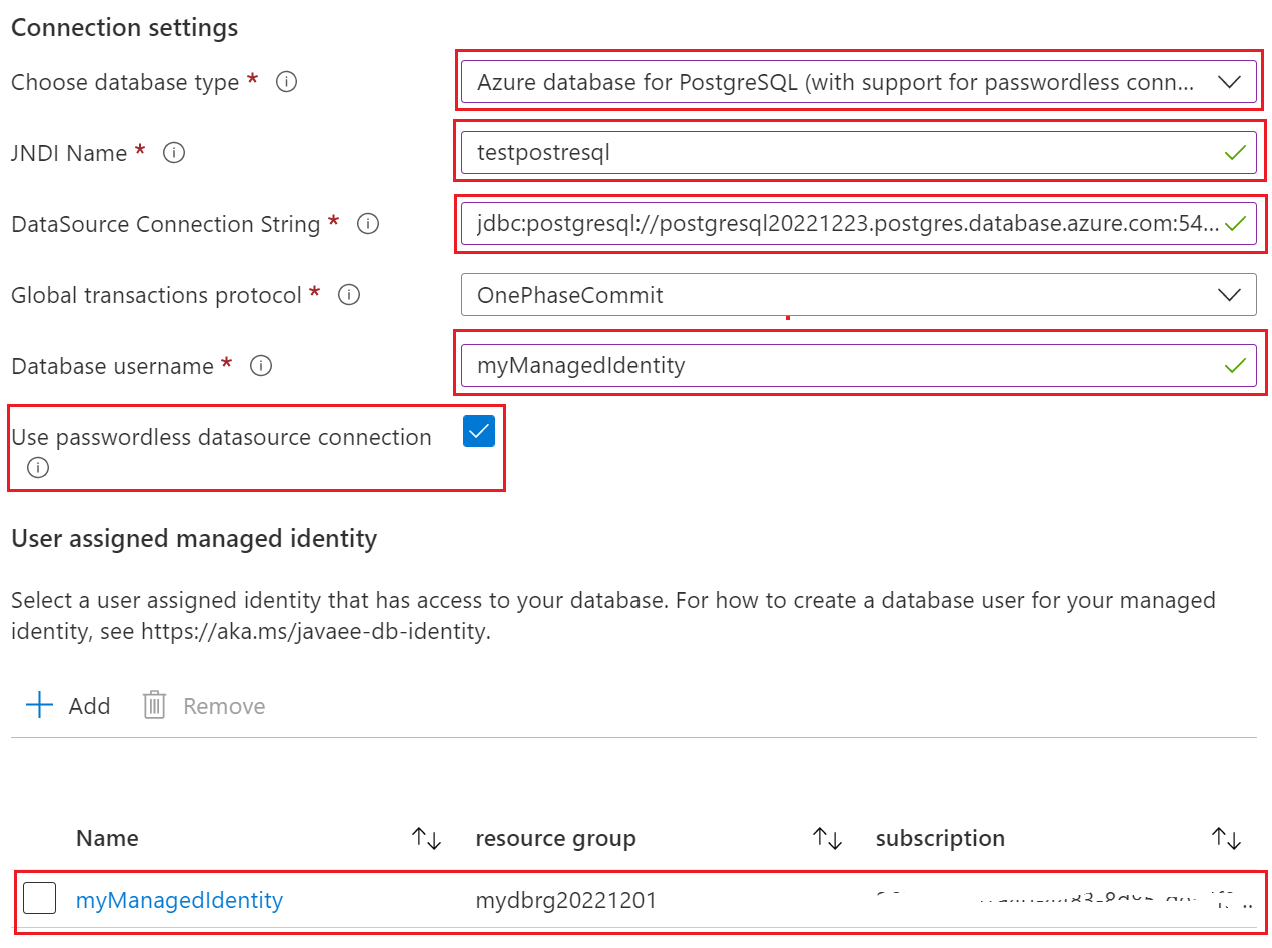
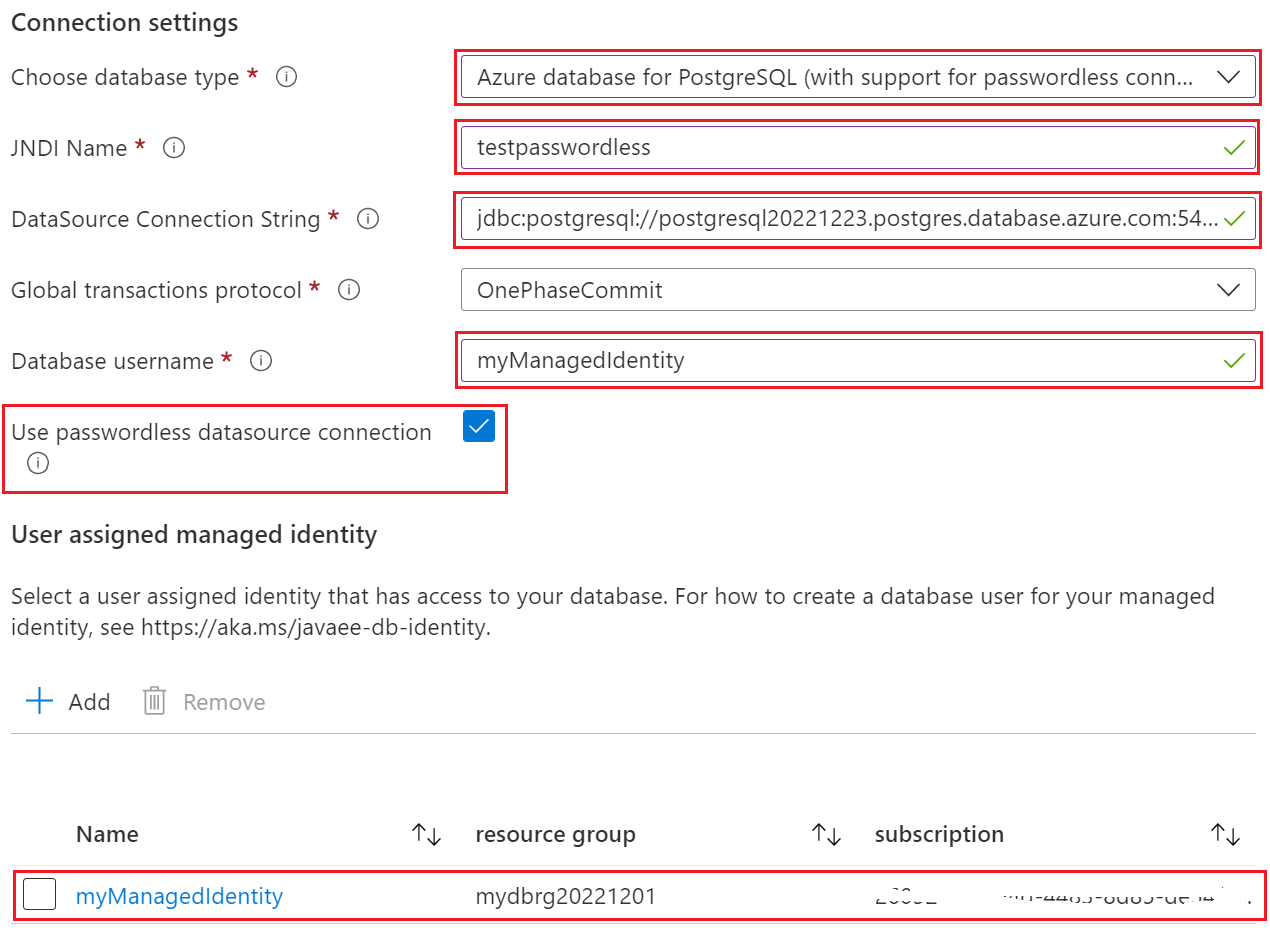
update screenshot

diff --git a/articles/java/ee/how-to-configure-passwordless-datasource.md b/articles/java/ee/how-to-configure-passwordless-datasource.md
@@ -401,7 +401,7 @@ Fill in required information in **Basics** blade and other blades if you want to
 1. For **Connect to database?**, select **Yes**.
 1. Under **Connection settings**, for **Choose database type**, open the dropdown menu, then select **Azure Database for PostgreSQL (with support for passwordless connection)**.
 1. Check **Use passwordless datasource connection**.
-1. For **JNDI Name**, input `testpostresql` or your expected value.
+1. For **JNDI Name**, input `testpasswordless` or your expected value.
 1. For **DataSource Connection String**, input the connection string you obtained in last section.
 1. For **Database username**, input your managed identity name, in this example, the value is `myManagedIdentity`.
 1. For **User assigned managed identity**, select the managed identity you created in previous step, in this example, its name is `myManagedIdentity`.
@@ -425,6 +425,8 @@ Take [Oracle WebLogic Server Cluster on VMs](https://aka.ms/wls-vm-cluster) as a
 :::image type="content" source="media/how-to-configure-passwordless-datasource/screenshot-weblogic-console-datasource-state.png" alt-text="Screenshot of WebLogic Console portal showing the datasource state." lightbox="media/how-to-configure-passwordless-datasource/screenshot-weblogic-console-datasource-state.png":::
 
 ### [PostgreSQL Flexible Server](#tab/postgresql-flexible-server)
+
+:::image type="content" source="media/how-to-configure-passwordless-datasource/screenshot-weblogic-console-postgresql-state.png" alt-text="Screenshot of WebLogic Console portal showing the PostgreSQL state." lightbox="media/how-to-configure-passwordless-datasource/screenshot-weblogic-console-postgresql-state.png":::
 
 ---
 
